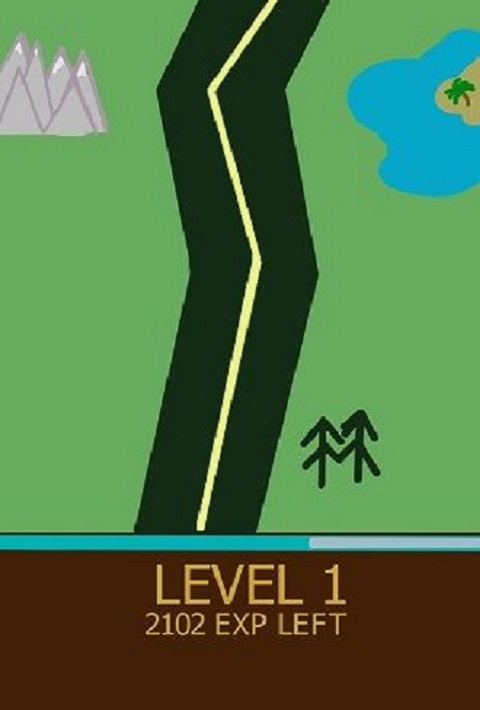
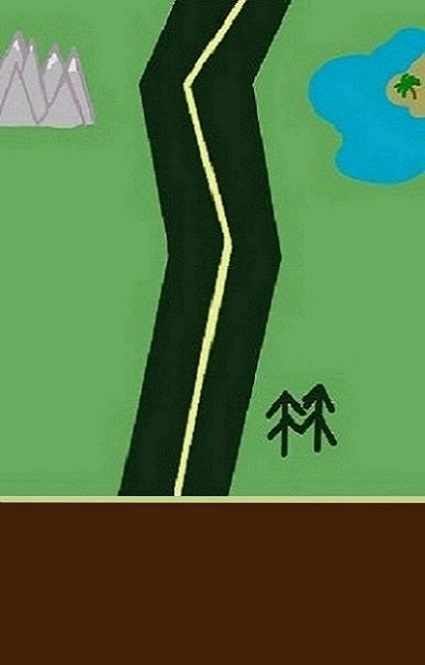
Working on saving

diff --git a/SeniorProject/www/src/Game.js b/SeniorProject/www/src/Game.js
@@ -1,3 +1,5 @@
+// Tea time
+
 /* globals Phaser:false */
 // create BasicGame Class
 BasicGame = {
@@ -6,6 +8,18 @@ BasicGame = {
 
 var tileID = 0;
 var challenges = [];
+var decision = -1;
+var inputGiven = false;
+var xp = 0; 
+var ranks = ["Life Noob", "Hobby Builder", "Hobby Hoarder", "Life Expert"];
+var rankNumber = 0;
+var db;
+
+function confirm_callback(id) 
+{ 
+    decision = id;
+    inputGiven = true;
+};
 
 // create Game function in BasicGame
 BasicGame.Game = function (game) {
@@ -26,7 +40,7 @@ BasicGame.Game.prototype = {
         // * SHOW_ALL
         // * RESIZE
         // See http://docs.phaser.io/Phaser.ScaleManager.html for full document
-        this.scale.scaleMode = Phaser.ScaleManager.SHOW_ALL;
+        this.scale.scaleMode = Phaser.ScaleManager.RESIZE;
         // If you wish to align your game in the middle of the page then you can
         // set this value to true. It will place a re-calculated margin-left
         // pixel value onto the canvas element which is updated on orientation /
@@ -49,7 +63,7 @@ BasicGame.Game.prototype = {
         // Re-calculate scale mode and update screen size. This only applies if
         // ScaleMode is not set to RESIZE.
         this.scale.refresh();
-
+ 
     },
     
     preload: function () {
@@ -66,18 +80,48 @@ BasicGame.Game.prototype = {
         this.load.image('rubies', 'asset/rubies.PNG');
         this.load.image('walk', 'asset/walk.PNG');
         this.load.image('close', 'asset/closeButton.png');
-        this.load.image('map2', 'asset/Map2.jpeg')
+        this.load.image('map2', 'asset/Map2.jpeg');
+        
+        db = this.loadDatabase();
+        this.loadData();
     },
-
+    
+    loadDatabase: function () {
+        try {
+            if(window.localStorage) return window.localStorage;
+             }
+        catch (e){
+        }
+    }, 
+    
+    loadData: function () {
+        if(db.getItem("xp")) {
+            xp = parseInt(db.getItem("xp"));
+        } 
+        if(db.getItem("tileID")) { 
+          //  alert("tile" + db.tileID);
+            tileId = db.getItem("tileID");
+        }
+        if(db.getItem("rankNumber")) {
+           // alert("rank" + db.rankNumber);
+            rankNumber = db.getItem("rankNumber");
+        }
+       // this.buildMap();
+    },
+    
     create: function () {
+        
+        document.addEventListener("intel.xdk.notification.confirm", confirm_callback, false);
         this.stage.backgroundColor = "#4488AA";
 /*
         this.background = this.game.add.sprite(0,0, 'map2');
 */
         this.buildMap();
-        this.settings = this.game.add.sprite(364,509, 'settings');
-        this.settings.inputEnabled = true;
-        this.settings.events.onInputDown.add(this.settingsWindow, this);
+        //this.settings = this.game.add.sprite(364,509, 'settings');
+        //this.settings.inputEnabled = true;
+        //this.settings.events.onInputDown.add(this.settingsWindow, this);
+        
+
         
         /*challenges.push(this.createChallenge(0, "Challenge 0", 40, 160, 396));
         challenges.push(this.createChallenge(1, "Challenge 1", 30, 200, 223));
@@ -86,40 +130,48 @@ BasicGame.Game.prototype = {
         challenges.push(this.createChallenge(1, "Challenge 1", 30, 85, 185));
         challenges.push(this.createChallenge(2, "Challenge 2", 20, 170, 75));*/
     
+    },  
+    
+    update: function()
+    {
+        console.log(xp);
+        if(inputGiven == true)
+        { 
+             
+            this.challenge();
+            inputGiven = false;
+        }
+        var exp = (1000-xp).toString() + " xp to go!";
+        var tile = tileId + 1
+        // RANK IS TOO HIGH STAWP
+        this.challengeText.text = tile.toString();
+        //this.rankText.text = ranks[rankNumber];
+        this.expText.text = xp.toString() + "exp";
+    },
+     
+    createConfirm: function(event)
+    {
+        navigator.notification.confirm(challenges[tileID].text, confirm_callback, challenges[tileID].title, ["Confirm", "Cancel"]); 
+
     },
     
-     
-    challenge: function(event) { 
+    challenge: function() { 
        // var challengeWindow = this.game.add.sprite(70,100,'challenge');
        // var rubies = this.game.add.sprite(140, 338, 'rubies');
-        if(confirm(challenges[tileID].text))
+        if(decision == 1)
         {
-            challenges[tileID].tile = this.game.add.sprite(challenges[tileID].x , challenges[tileID].y, 'grayTile');
+            challenges[tileID].tile = this.game.add.sprite(challenges[tileID].x, challenges[tileID].y, 'grayTile');
             this.advanceUser();
-            
+        }
+        else
+        {
+            challenges[tileID].tile.events.onInputUp.addOnce(this.createConfirm, this, challenges[tileID]);        
         }
         
        /* this.walk = this.game.add.sprite(140, 400, 'walk');
         this.walk.inputEnabled = true;
         this.walk.events.onInputDown.add(this.takeWalk, this);*/
     
-    },
-    
-    
-    settingsWindow: function(event) {
-        var window = this.game.add.sprite(100, 200, 'challenge');
-    
-        var close = this.game.add.sprite(360,200, 'close');
-        close.inputEnabled = true;
-        close.events.onInputDown.add(this.closeWindow, this);
-   
-    },
-    
-    closeWindow: function(close, window) {
-        alert("Closing");
-        close.destroy();
-        window.destroy();
-        alert("Is closed");
     },
        
     gameResized: function (width, height) {
@@ -137,13 +189,12 @@ BasicGame.Game.prototype = {
         if(tileID == 0)
             {
                 this.background = this.game.add.sprite(0,0, 'background');
-                challenges.push(this.createChallenge(0, "Challenge 0", 40, 160, 396));
-                challenges.push(this.createChallenge(1, "Challenge 1", 30, 200, 223));
-                challenges.push(this.createChallenge(2, "Challenge 2", 20, 180, 55));    
+                challenges.push(this.createChallenge(0, "Take a break! Turn off all your screens and look at something beautiful that inspires you for 10 minutes.", 135, 396));
+                challenges.push(this.createChallenge(1, "Challenge 1", 175, 215));
+                challenges.push(this.createChallenge(2, "Challenge 2", 150, 45));    
             }
         if(tileID == 3)
             {
-                alert("id is 3");
                 //Destroy old tiles
                 for(i = 0; i < 3; i++)
                     {
@@ -151,20 +202,30 @@ BasicGame.Game.prototype = {
                     }
                 //Create new tiles
                 this.background = this.game.add.sprite(0,0, 'map2');
-                challenges.push(this.createChallenge(3, "Challenge 3", 40, 163, 375));
-                challenges.push(this.createChallenge(4, "Challenge 4", 30, 85, 185));
-                challenges.push(this.createChallenge(5, "Challenge 5", 20, 170, 75));
-            }
+                challenges.push(this.createChallenge(3, "Challenge 3", 135, 350));
+                challenges.push(this.createChallenge(4, "Challenge 4", 60, 170));
+                challenges.push(this.createChallenge(5, "Challenge 5", 145, 75));
+            } 
+         
+        var graphics = this.game.add.graphics(0,0);
+        var style = { font: "30px Arial", fill: "#ffe37f"};
+        var style2 = { font: "40px Arial", fill: "#ffe37f"};
+  
+        this.game.add.text(15, 505, "Challenge", style);
+        this.challengeText = this.game.add.text(70, 537, "", style2);
+        
+        this.rankText = this.game.add.text(130, 550, "", style);
+        this.expText = this.game.add.text(135, 584, " exp", style);
     },
     
-    createChallenge: function(id, text, xp, x, y)
+    createChallenge: function(id, text, x, y)
     {
         obj = {};
         obj.id = id;
         obj.text = text;
-        obj.xp = xp;
         obj.x = x;
         obj.y = y;
+        obj.title = "Challenge " + (id + 1);
         
         obj.tile = this.game.add.sprite(x,y, 'grayTile');
         if(obj.id == 0 || obj.id == 3)
@@ -183,16 +244,25 @@ BasicGame.Game.prototype = {
         {
             object.tile = this.game.add.sprite(object.x, object.y, 'tile');
             object.tile.inputEnabled = true;
-            object.tile.events.onInputUp.addOnce(this.challenge, this, object);
+            object.tile.events.onInputUp.addOnce(this.createConfirm, this, object);
         }
     }, 
-    
+     
     advanceUser: function()
-    { 
-       // alert("in advance ");
+    {  
+        xp = xp + 500;
+        if(xp%1000 == 0 && rankNumber < 4) 
+            {
+                console.log(xp);
+             rankNumber = rankNumber + 1;
+            }
+       // alert("in advance "); 
         tileID = tileID + 1;
       //  nextObj = challenges[tileID]; 
        // alert(challenges[tileID].text);
+        db.setItem("xp", xp);
+        db.setItem("tileID", tileID);
+        db.setItem("rankNumber", rankNumber);
         if(tileID == 3)
         {
             this.buildMap();
